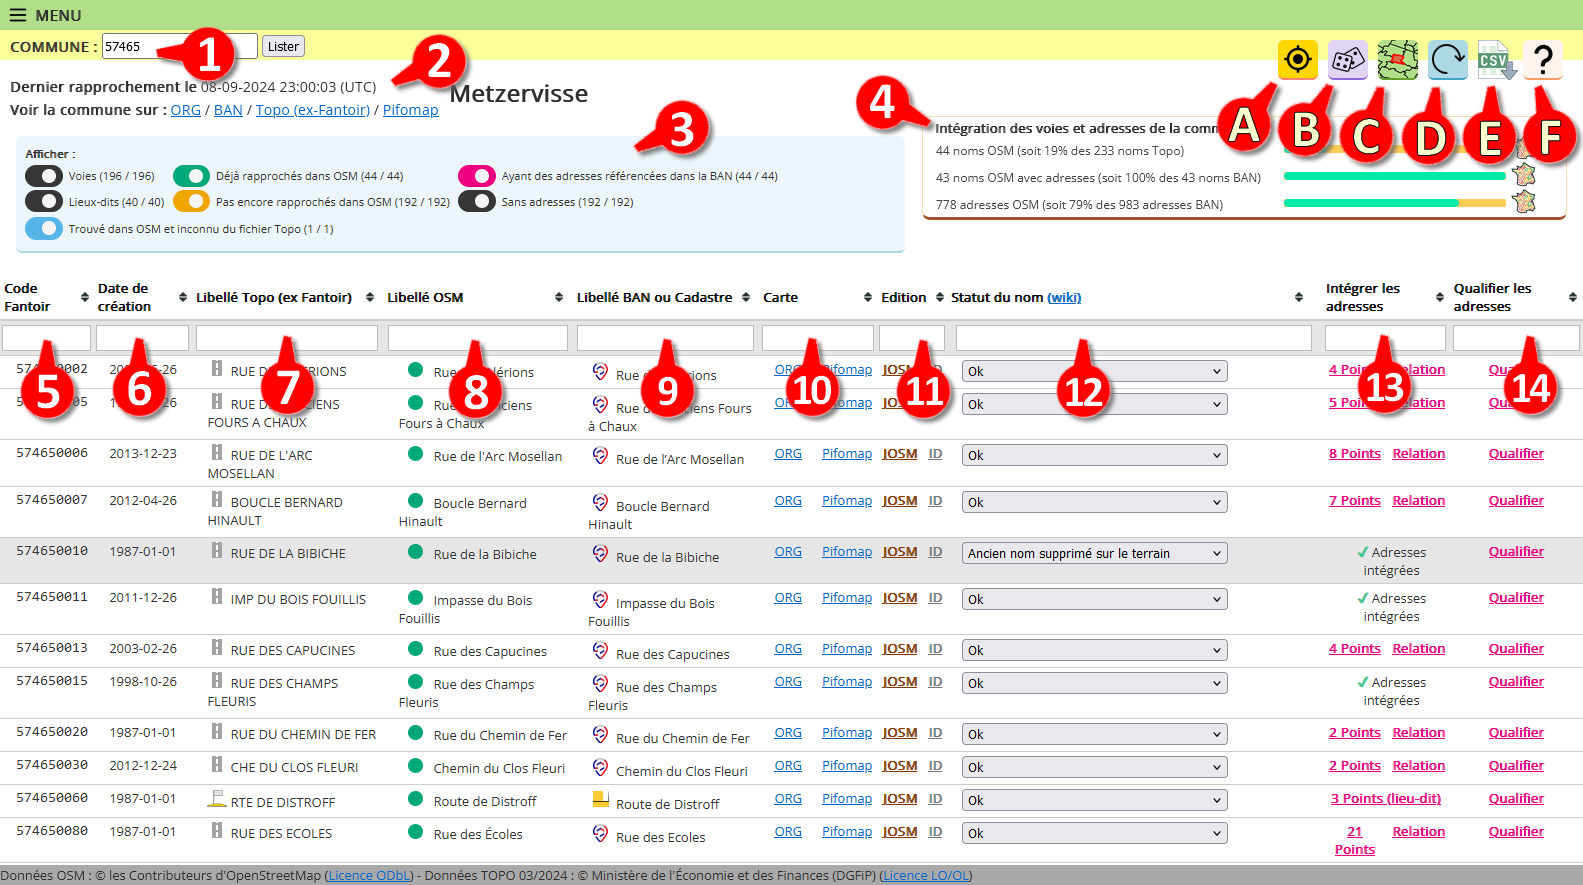
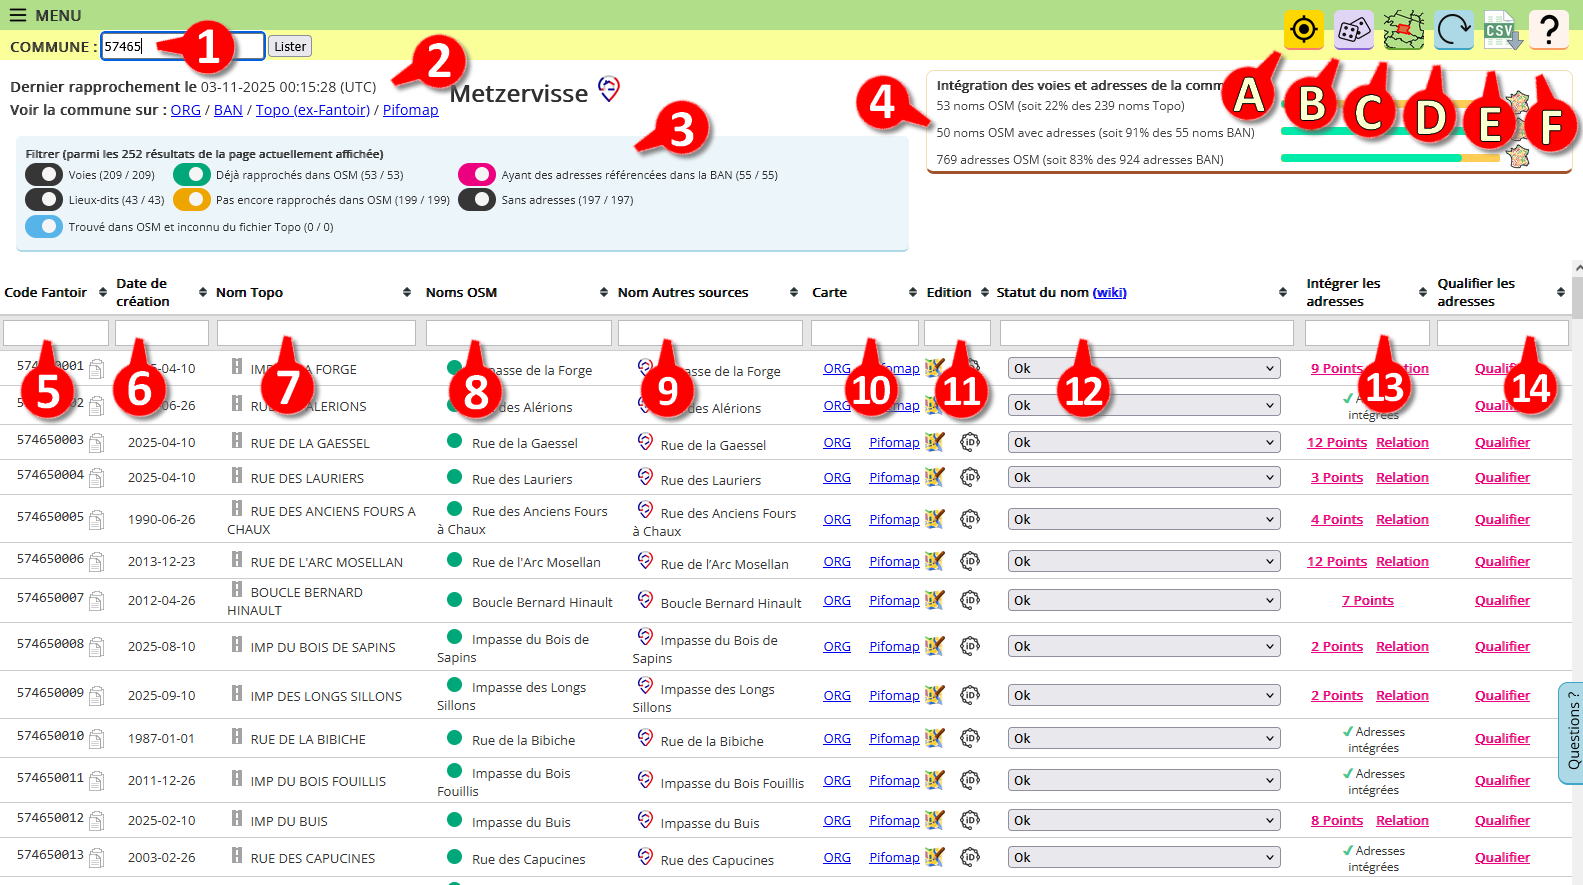
màj aide pifomètre

diff --git a/aide/pifometre.html b/aide/pifometre.html
@@ -82,14 +82,14 @@
 
             <p><span class="titre_para">6. Date de création.</span> Date de création du code Fantoir (1 janvier 1987 pour les plus anciens).</p>
 
-            <p><span class="titre_para">7. Libellé Topo.</span> Nom lié au code Fantoir selon le fichier Topo de la commune.</p>
+            <p><span class="titre_para">7. Nom Topo.</span> Nom lié au code Fantoir selon le fichier Topo de la commune.</p>
 
-            <p><span class="titre_para" >8. Libellé OSM.</span> Nom trouvé dans OpenStreetMap. Il peut provenir d'une voie (<span class="monospace">highway</span>), d'un lieu-dit (<span class="monospace">place</span>) ou d'une adresse (<span class="monospace">addr:street</span> ou <span class="monospace">addr:place</span>).
+            <p><span class="titre_para" >8. Nom OSM.</span> Nom trouvé dans OpenStreetMap. Il peut provenir d'une voie (<span class="monospace">highway</span>), d'un lieu-dit (<span class="monospace">place</span>) ou d'une adresse (<span class="monospace">addr:street</span> ou <span class="monospace">addr:place</span>).
             <br/>Si le nom OSM correspond à un nom de voie ou lieu-dit trouvé dans le fichier Topo, il est accompagné d'une pastille ronde et verte : on dit qu'il est «rapproché».
             <br/>Si aucun nom dans OSM ne correspond à la voie ou au lieu-dit trouvé dans Topo, s'affiche juste une pastille orange en forme de losange.
             </p>
 
-            <p><span class="titre_para">9. Libellé <abbr title="Base Adresse Nationale">BAN</abbr> ou Cadastre.</span> Nom trouvé dans la <abbr title="Base Adresse Nationale">BAN</abbr> pour les voies, ou dans le Cadastre pour les lieux-dits. La source est précisée sur chaque ligne avec un pictogramme <img src="../img/ban_logo.png" height="16px"/> BAN ou <img src="../img/cadastre.png"/> Cadastre.</p>
+            <p><span class="titre_para">9. Nom Autres sources.</span> Nom trouvé dans les autres sources utilisées par Pifomètre. La source est précisée sur chaque ligne avec un pictogramme. Pour les lieux-dits, c'est le cadastre <img src="../img/cadastre.png"/>. Pour les voies, on cherche dans la <abbr title="Base Adresse Nationale">BAN</abbr> <img src="../img/ban_logo.png" height="16px"/>, puis à défaut dans la BD Topo <img src="../img/bdtopo.png" height="16px"/>, puis à défaut dans <a href="https://forum.openstreetmap.fr/t/la-gazette-de-bano-pifometre-les-communes-montrent-la-voie/38740" target="_blank">le filaire de voirie fourni par la commune</a> <img src="../img/commune.png" height="16px"/>.</p>
 
             <p><span class="titre_para">10. Carte.</span> Lien vers la carte Openstreetmap.org, et vers la page Pifomap de la commune – centrés sur la voie ou le lieu-dit sélectionné·e.</p>
 

diff --git a/pifometre/index.html b/pifometre/index.html
@@ -427,7 +427,7 @@
         }
         $('#'+table+' tr').append($('<th>').append('Nom Topo'))
         $('#'+table+' tr').append($('<th>').append('Noms OSM'))
-        $('#'+table+' tr').append($('<th>').append('Nom BAN, Cadastre ou BD Topo'))
+        $('#'+table+' tr').append($('<th title="BAN / Cadastre / BD Topo / Commune">').append('Nom Autres sources'))
         $('#'+table+' tr').append($('<th>').attr('colspan','2').append('Carte'))
         $('#'+table+' tr').append($('<th>').attr('colspan','2').append('Edition'))
         $('#'+table+' tr').append($('<th title="ex statut Fantoir">').append('Statut du nom ').append($('<a>').attr('href','http://wiki.openstreetmap.org/wiki/Contribuer_%C3%A0_la_BANO#Typologie_des_anomalies_FANTOIR').append('(wiki)')))
